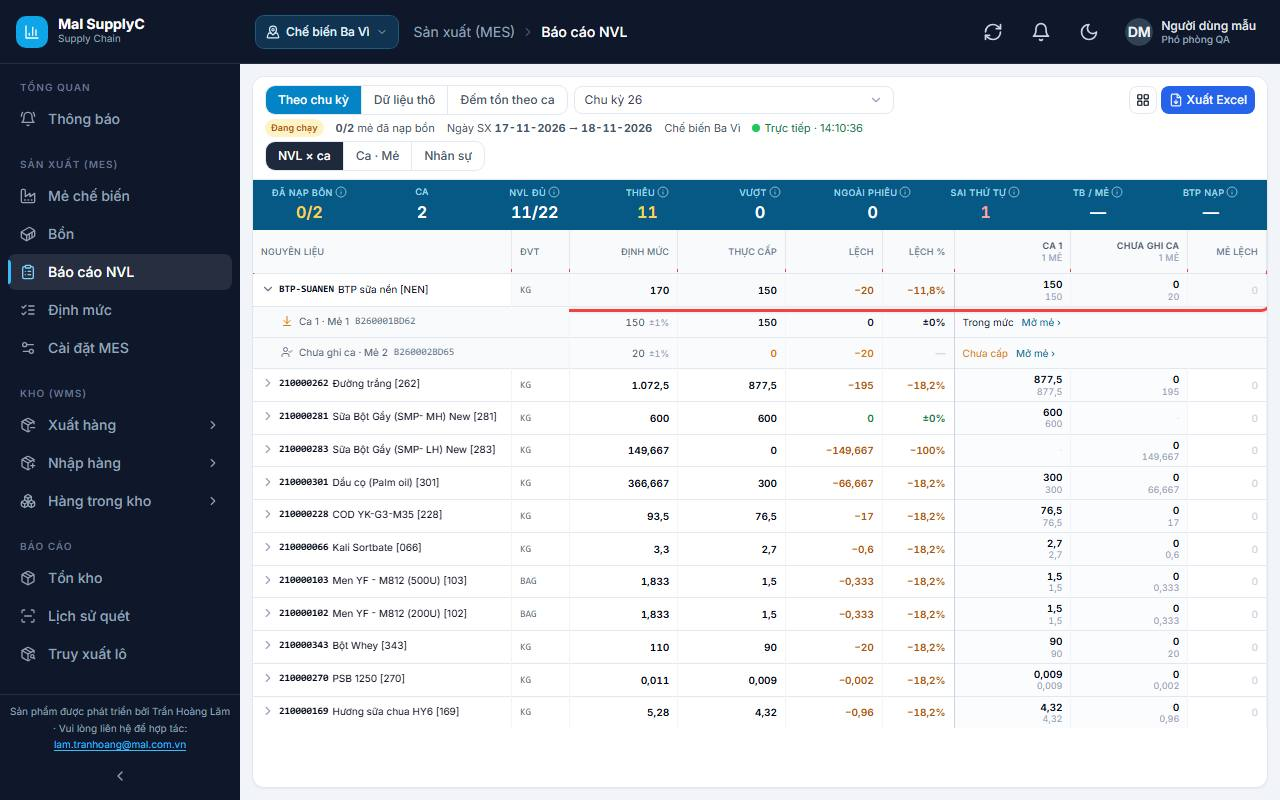
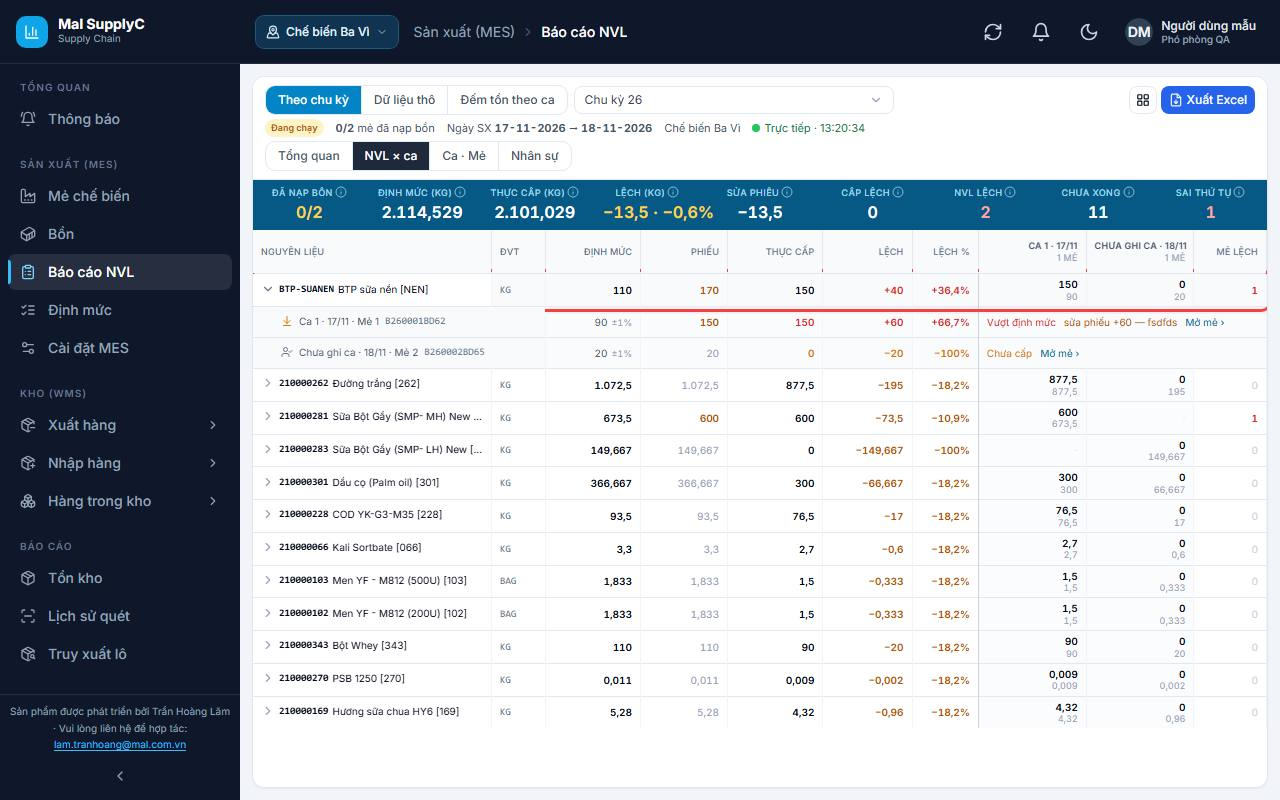
docs(help): bài MES — ảnh Tổng quan của Báo cáo NVL (70a) + chụp lại NVL × ca có cột Phiếu

diff --git a/frontend/src/help/guides/mes.ts b/frontend/src/help/guides/mes.ts
@@ -277,7 +277,7 @@ export const MES_GUIDE: Guide = {
             'Ca là ca của một ngày: chu kỳ kéo qua nhiều ngày thì ghi "Ca 1 · 17/11", "Ca 1 · 18/11".',
             '**Xuất Excel** = báo cáo cuối chu kỳ: Lệch theo ca · mẻ / NVL theo ca / NVL từng mẻ / Ca – Mẻ / Nhân sự / Tiêu hao NVL (thô).',
           ],
-          images: [d('70-bao-cao-chu-ky', 'NVL × ca, một dòng mở ▸ từng mẻ'), d('72-bao-cao-nhan-su', 'Tab Nhân sự')],
+          images: [d('70a-tong-quan', 'Tổng quan — lệch so định mức theo ca · mẻ, một mẻ mở từng nguyên liệu'), d('70-bao-cao-chu-ky', 'NVL × ca, một dòng mở ▸ từng mẻ'), d('72-bao-cao-nhan-su', 'Tab Nhân sự')],
         },
         {
           title: 'C2. Dữ liệu thô tiêu hao NVL (cho SAP)',

diff --git a/docs/modules/help.md b/docs/modules/help.md
@@ -47,4 +47,4 @@
 | `kiem-ke` — Kiểm kê | `stocktake` | `public/guide/kiem-ke/` (14 ảnh) | |
 | `truy-xuat` — Truy xuất lô | `traceability` | `public/guide/truy-xuat/` (8 ảnh) | mẻ thật B260001BD62 (chỉ đọc) |
 | `lich-su-quet` — Lịch sử quét xuất kho | `scanlog` | `public/guide/lich-su-quet/` (3 ảnh) | kho chế biến không xuất theo chuyến ⇒ trang trống, bài nói rõ |
-| `mes` — Sản xuất (MES): cài đặt và vận hành mẻ | `production` | `public/guide/mes/` (46 ảnh, ~3,6 MB) | Chụp 19/11 trên Preview (chức danh Phó phòng QA, Chế biến Ba Vì, mẻ mẫu B260003BD66 + bồn BD66 đã xoá) |
+| `mes` — Sản xuất (MES): cài đặt và vận hành mẻ | `production` | `public/guide/mes/` (47 ảnh, ~3,7 MB) | Chụp 19/11 trên Preview (chức danh Phó phòng QA, Chế biến Ba Vì, mẻ mẫu B260003BD66 + bồn BD66 đã xoá); 21/11 chụp lại 70 + thêm 70a (Tổng quan) trên chu kỳ 26 thật, chỉ đọc |
